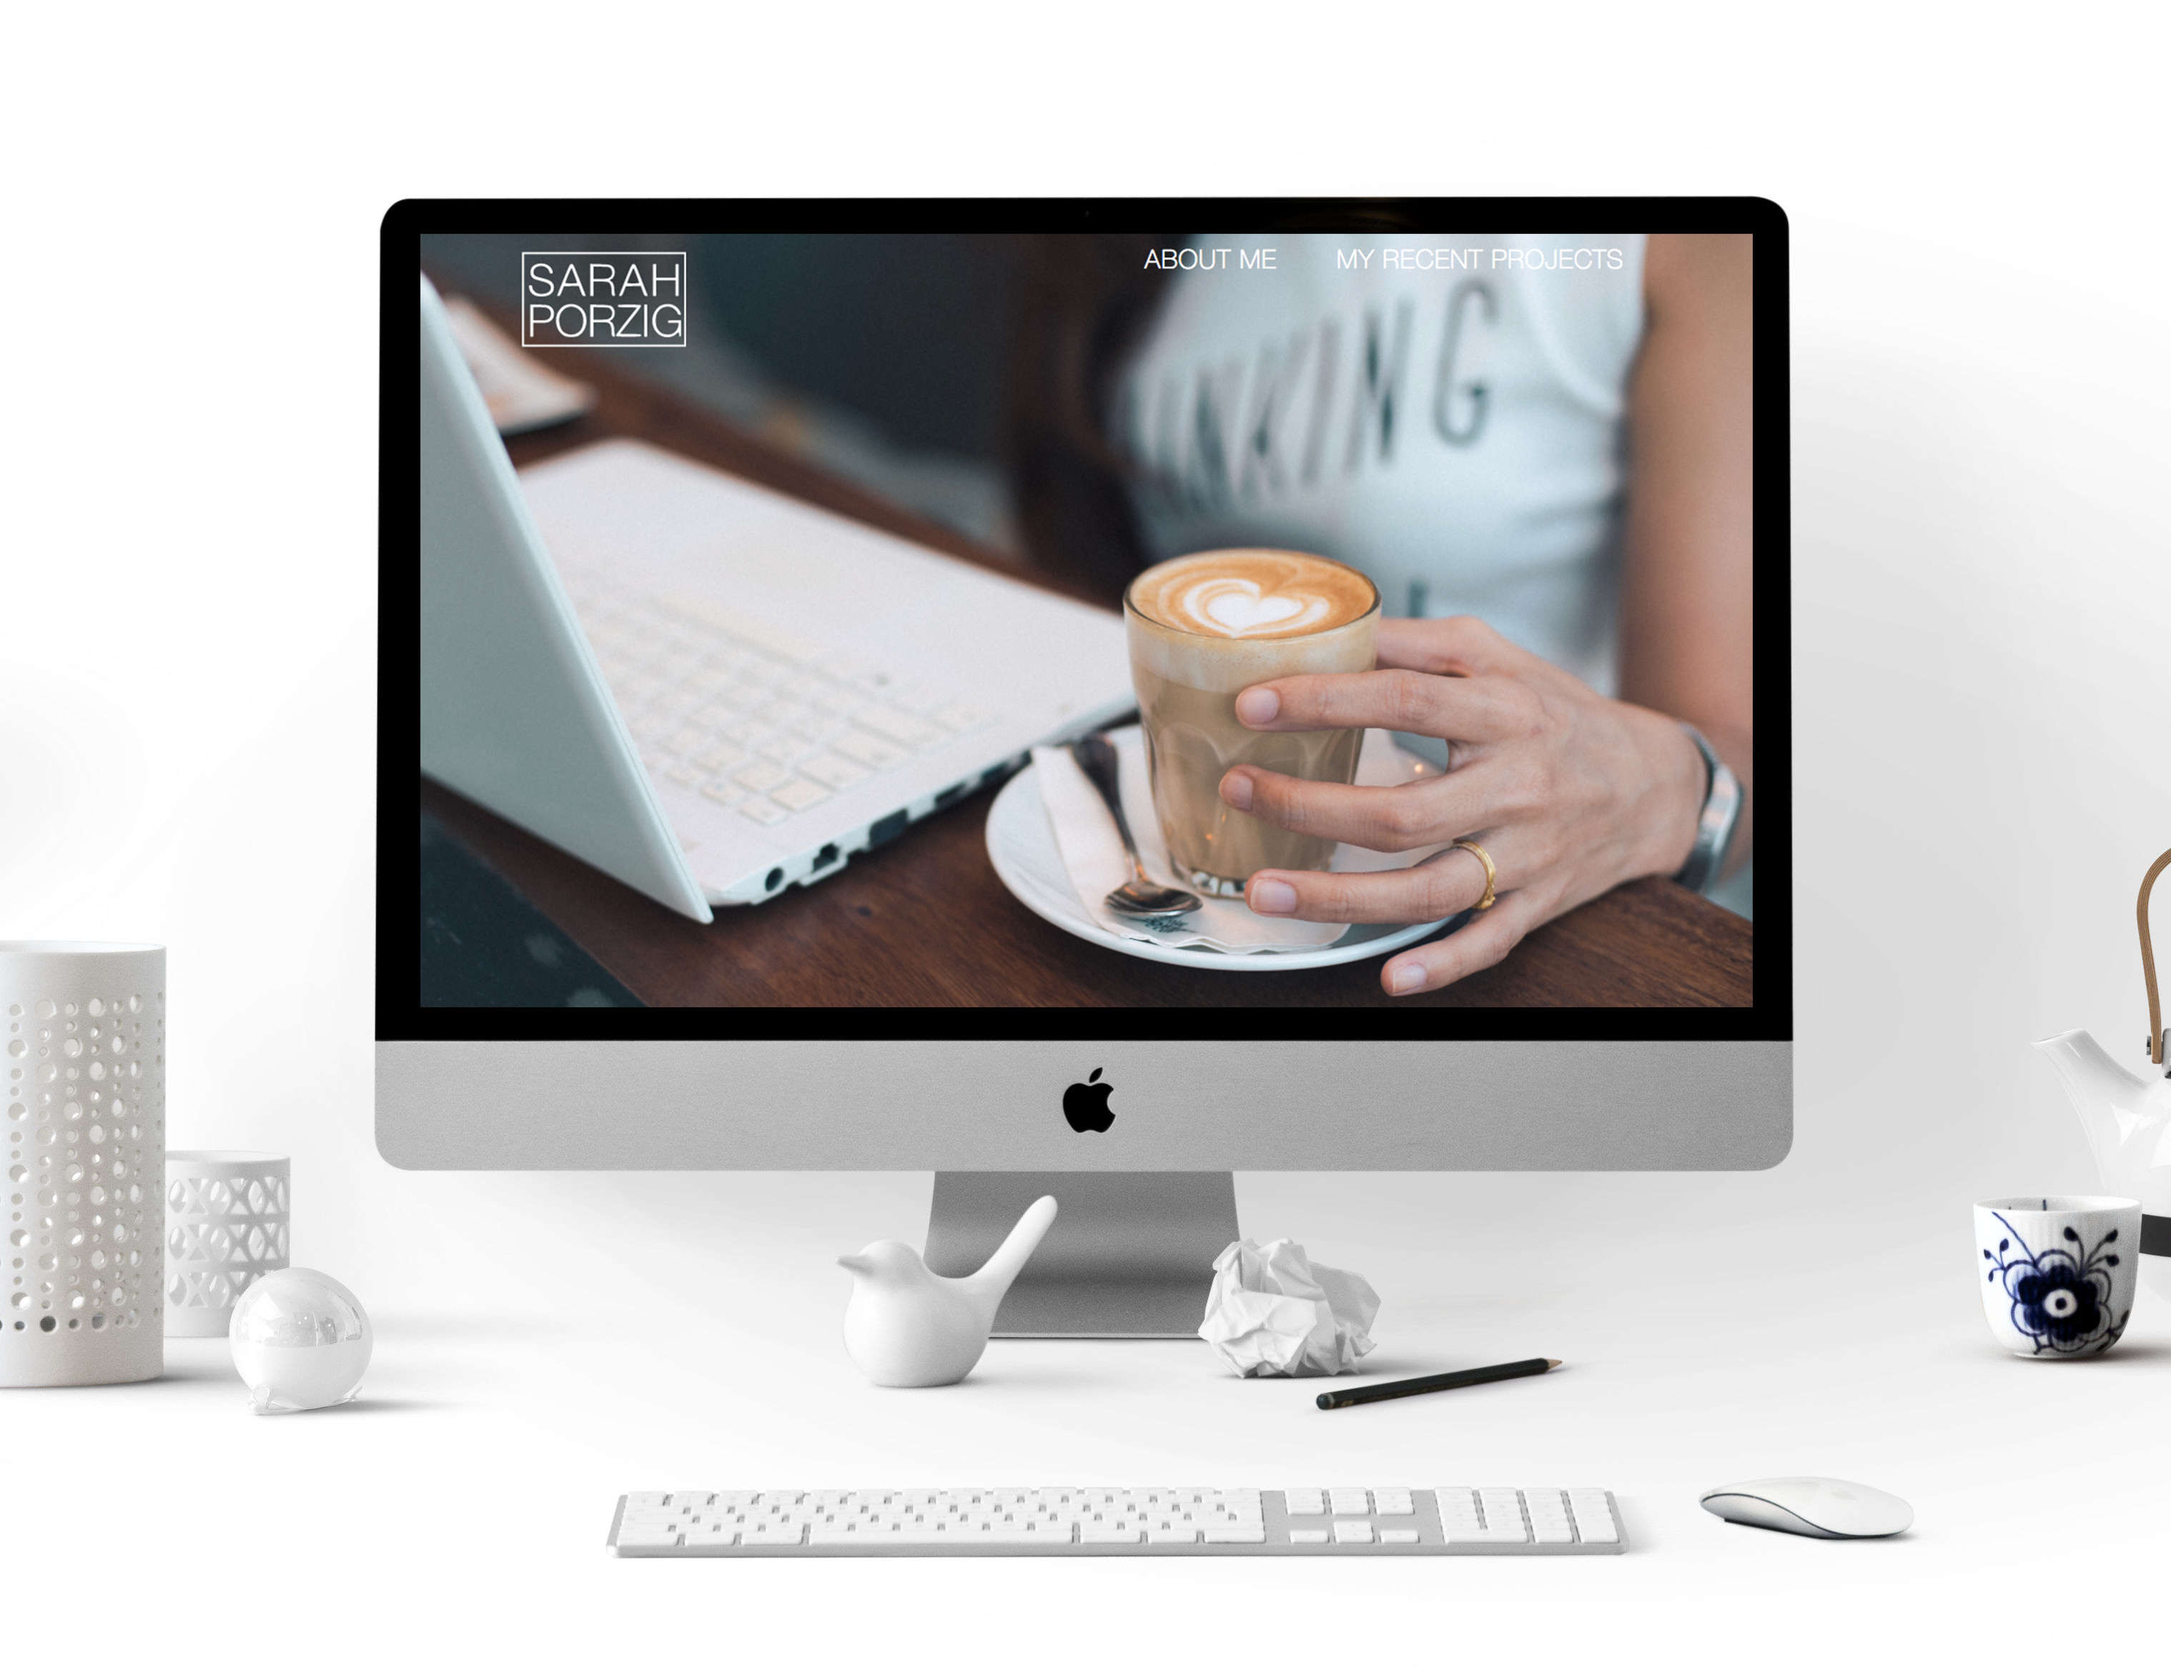
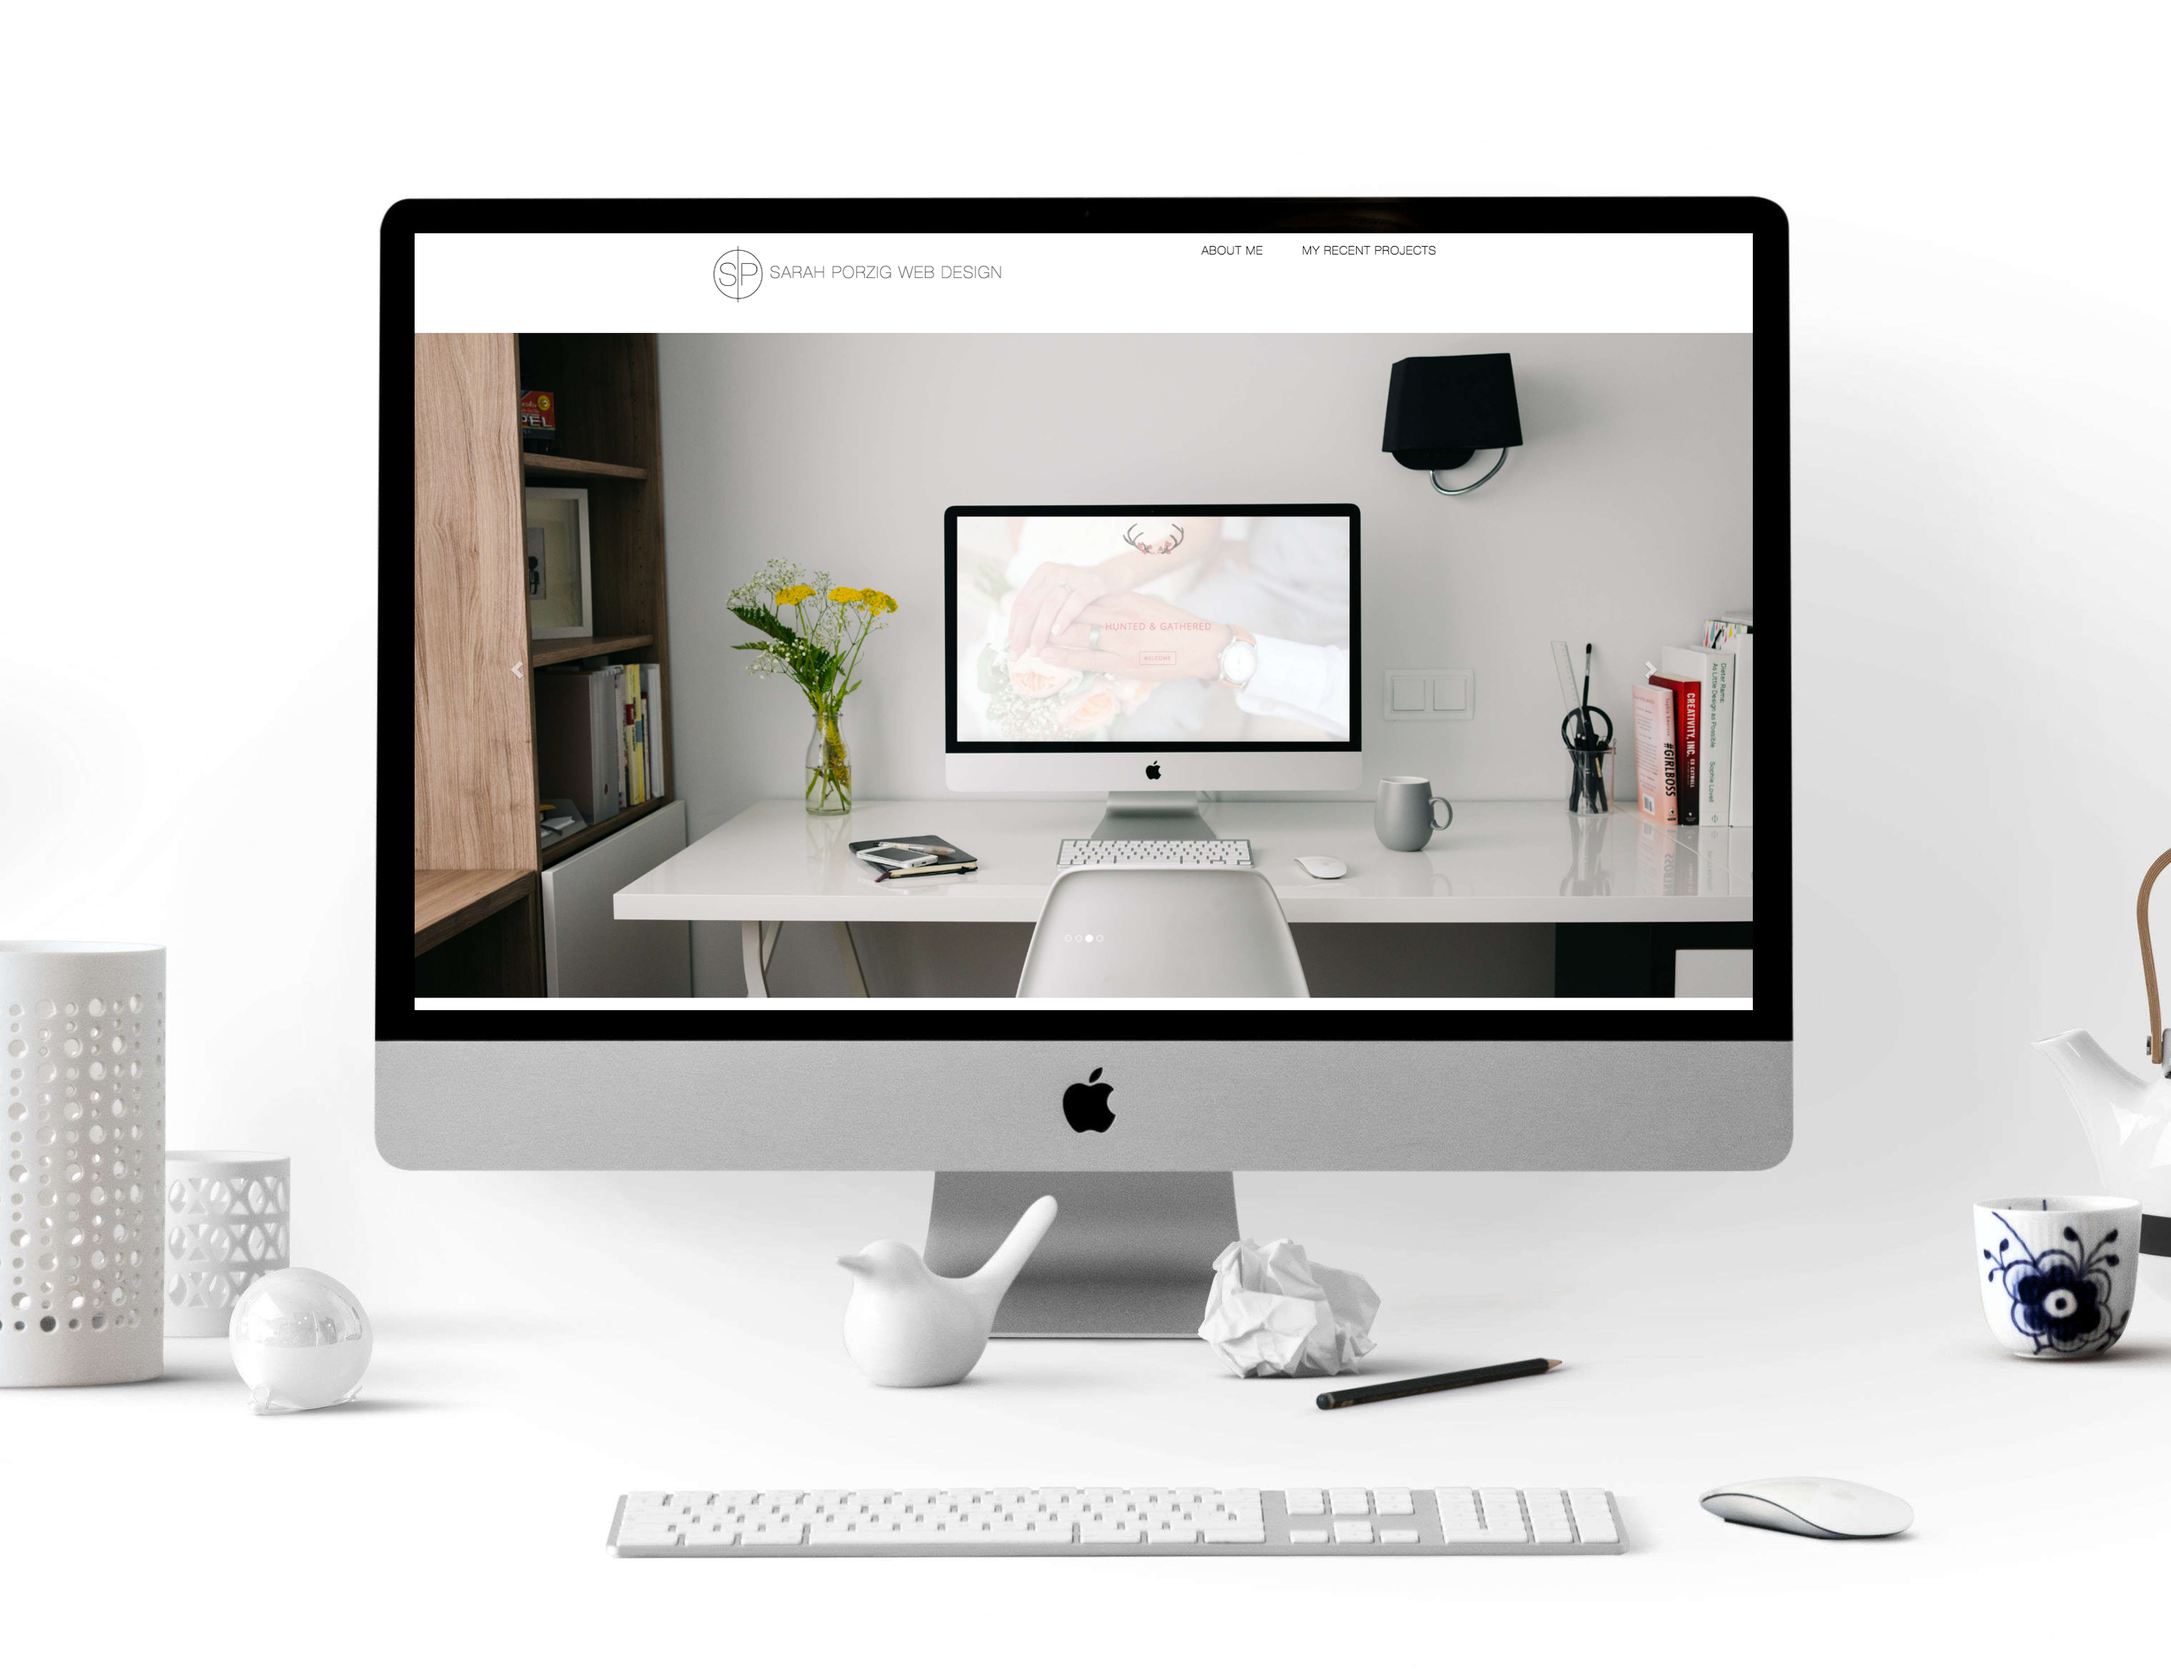
major changes to site

Changed region(s): [[0.1857, 0.1246, 0.8047, 0.6231]]

diff --git a/index.html b/index.html
@@ -20,26 +20,26 @@
             <span class="icon-bar"></span>
             <span class="icon-bar"></span>
           </button>
-          <a class="navbar-brand" href="#"><img src="images/logo.svg" id="brand" alt="logo"><span class="subhead"> <!--- add sub-branding here if needed --> </span></a>
+          <a class="navbar-brand" href="#"><img src="images/logoSP.png" id="brand" alt="logo"><span class="subhead"> Sarah Porzig Web Design </span></a>
         </div> <!-- navbar header -->
         <div class="collapse navbar-collapse" id="collapse">
           <ul class="nav navbar-nav navbar-right">
-            <li><a href="#" role="button" class="aboutMeButton">
-              About Me</a></li>
+           <!-- <li><a href="#" role="button" class="aboutMeButton">
+              About Me</a></li> -->
             <li><a href="#" role="button" class="myProjectsButton">My Recent Projects</a></li>
           </ul>
         </div><!-- collapse navbar-collapse -->
       </div><!-- container -->
     </nav>
 <!-- end navigation -->
-  <img id="navImage" src="images/splashCoffeeLaptop.jpeg">
-  <div id="aboutMe" class="aboutMe edge--both">
+  <!-- <img id="navImage" src="images/splashCoffeeLaptop.jpeg"> -->
+ <!-- <div id="aboutMe" class="aboutMe edge--both">
     <h1 class="blockHeading">About Me</h1>
     <div class="container">
       <p> I am a freelance Front End Web Developer focussed on delivering high quality websites to my clients using a variety of technologies including HTML, CSS and JavaScript. </p>
       <p>I enjoy the process of building the foundations of a website and then transforming the basic skeleton into something visually appealing and functional. I particularly enjoy creating websites with simple user interfaces and seamless transitions.</p>
       <p>I am passionate about the blending of design and technology. I enjoy being able to turn concepts into dynamic and exciting user interfaces and experiences. I find the world of technology inspiring and am excited to be involved in the field as the industry evolves.</p>
-      <p> Please feel free to have a look at my recent projects while you are here, you can also find me on LinkedIn and GitHub at the links below. </p>
+      <p> Please feel free to have a look at my recent projects while you are here, you can also find me on LinkedIn and GitHub at the links below. </p> -->
       <!-- Carousel -->
     </div> <!-- container -->
   </div>
@@ -51,7 +51,7 @@
             <li data-target="#carouselPortfolio" data-slide-to="1"></li>
             <li data-target="#carouselPortfolio" data-slide-to="2"></li>
             <li data-target="#carouselPortfolio" data-slide-to="3"></li>
-            <li data-target="#carouselPortfolio" data-slide-to="4"></li>
+          
           </ol>
           <div class="carousel-inner">
           <div class="item active">
@@ -65,9 +65,6 @@
             </div>
             <div class="item">
               <img src="images/deskReact.jpeg" alt="React Template Project">
-            </div>
-            <div class="item">
-              <img src="images/deskLakesView.jpeg" alt="Lakes View Project">
             </div>
           </div><!--carousel inner-->
           <a class="left carousel-control" href="#carouselPortfolio" role="button" data-slide="prev"><span class="glyphicon glyphicon-chevron-left"></span></a>
@@ -137,6 +134,8 @@
           <p> <a href="reactTemplateSite/index.html" target="_blank"><span class="label label-default">Visit the Site</span></a> </p>
           <img src="images/reactTemplateColorPalette.png" alt="React Template Site Color Palette" class="colorPalette img-responsive center-block">
         </div><!-- react -->
+
+        <!--
         <div class="portfolioContentSection col-xs-12">
           <p> <a href="LakesView/index.html" target="_blank"><img src="images/imacwhiteprojectslakesview.jpg" alt="Caramar Project" class="img-responsive center-block"></a>
           <h2> Lakes View Miniature Horse Stud </h2>
@@ -144,7 +143,8 @@
           <p> A template website I created for a Miniature Horse Stud. I deliberately chose a colour palette that is reminiscent of horses and the outdoors to ensure that the website appropriately reflects the business it is representing. The single page layout flows and transitions smoothly and with ease. The design is compatible and pleasing to use across all platforms. </p>
           <p> <a href="LakesView/index.html" target="_blank"><span class="label label-default">Visit the Site</span></a> </p>
           <img src="images/ColorPaletteLakessView.png" alt="Caramar Site Color Palette" class="colorPalette img-responsive center-block">
-        </div><!-- LakesView -->
+        </div> --><!-- LakesView -->
+
     </div><!-- container-->
   </div><!-- block2-->
   <footer class="footer">
@@ -154,7 +154,7 @@
       <a href="mailto:sarahporzig@icloud.com" target="_top">sarahporzig@icloud.com</a>
      </div>
       <div class="col-xs-12 col-sm-4 footerSection">
-        <a href="#" role="button" class="aboutMeButton">About Me</a> <br /><br />
+       <!-- <a href="#" role="button" class="aboutMeButton">About Me</a> <br /><br /> -->
         <a href="#" role="button" class="myProjectsButton">My Recent Projects</a>
      </div>
      <div class="col-xs-12 col-sm-4 footerSection">

diff --git a/css/styles.css b/css/styles.css
@@ -11,17 +11,17 @@ body {
   margin-top: 0px;
 }
 .navbar-default{
-  background-color: transparent;
-  border-color: transparent;
+  background-color: white;
+  border-color: white;
   margin-bottom: 0px;
-  position: absolute;
   width: 100%;
+  margin-bottom: 100px;
 }
 .navbar-nav > li > a {
 	font-family:  'Helvetica Neue', Arial,sans-serif;
-  color: #ffffff !important; 
+  color: black !important; 
   font-weight: 200;
-  font-size: 22px;
+  font-size: 18px;
   text-transform: uppercase;
   letter-spacing: 1px;
   padding-right: 30px;
@@ -40,6 +40,9 @@ body {
 .navbar-brand {
 background-color: transparent;
 }
+.navbar-brand > img {
+display: inline;
+}
 .navbar-header > a.navbar-brand:visited {
   color: #656565
 }
@@ -55,9 +58,8 @@ background-color: transparent;
   letter-spacing: 2px;
 }
 #brand {
-  width: 170px;
-  -webkit-filter: invert(1);
-   filter: invert(1);
+  width: 80px;
+  
 }
 p > a {
   text-decoration: none;
@@ -103,7 +105,7 @@ p > a:active{
   opacity: 0.5;
 }
 .footer {
-  background-color: #FFE8E8;
+  background-color: white;
   padding-top: 50px;
   padding-bottom: 100px;
   margin-top: 100px;
@@ -111,7 +113,7 @@ p > a:active{
   width: 100%;
   font-family:  'Helvetica Neue', Arial,sans-serif;
   color: #656565;
-  font-size: 15px;
+  font-size: 14px;
   letter-spacing: 1px;
   padding-right: 0px;
   padding-left: 0px;
@@ -127,17 +129,7 @@ p > a:active{
 .footer > div > div > a:hover {
   opacity: 0.5;
 }
-.footer:before{
-  content: '';
-  width: 100%;
-  height: 100%;
-  position: absolute;
-  background: inherit;
-  z-index: -1;
-  top: 0;
-  transform-origin: left top;
-  transform: skewY(-3deg);
-}
+
 h2{
 	font-family:  'Helvetica Neue', Arial,sans-serif;
   font-weight: 200;
@@ -164,61 +156,17 @@ p{
   width: 100%;
   padding-top: 50px;
   padding-bottom: 50px;
-  z-index: 1;
-}
-/* Concept for skewed edges taken from http://www.hongkiat.com/blog/skewed-edges-css/ */
-.aboutMe:after{
-  content: '';
-  width: 100%;
-  height: 100%;
-  position: absolute;
-  background: inherit;
   z-index: -1;
-  bottom: 0;
-  transform-origin: left bottom;
-  transform: skewY(3deg);
 }
-.aboutMe:before{
-  content: '';
-  width: 100%;
-  height: 100%;
-  position: absolute;
-  background: inherit;
-  z-index: -1;
-  top: 0;
-  transform-origin: left top;
-  transform: skewY(-3deg);
-}
+
 #myProjects {
   position: relative;
   padding-top: 100px;
   padding-bottom: 100px;
-  background: #E5E5E5;
+  background: white;
   z-index: 1;
 }
-/* Concept for skewed edges taken from http://www.hongkiat.com/blog/skewed-edges-css/ */
-#myProjects:after{
-  content: '';
-  width: 100%;
-  height: 100%;
-  position: absolute;
-  background: inherit;
-  z-index: -1;
-  bottom: 0;
-  transform-origin: right bottom;
-  transform: skewY(3deg);
-}
-#myProjects:before{
-  content: '';
-  width: 100%;
-  height: 100%;
-  position: absolute;
-  background: inherit;
-  z-index: -1;
-  top: 0;
-  transform-origin: right top;
-  transform: skewY(-3deg);
-}
+
 #carousel {
   margin-bottom: 0px;
   padding-top: 0px;
